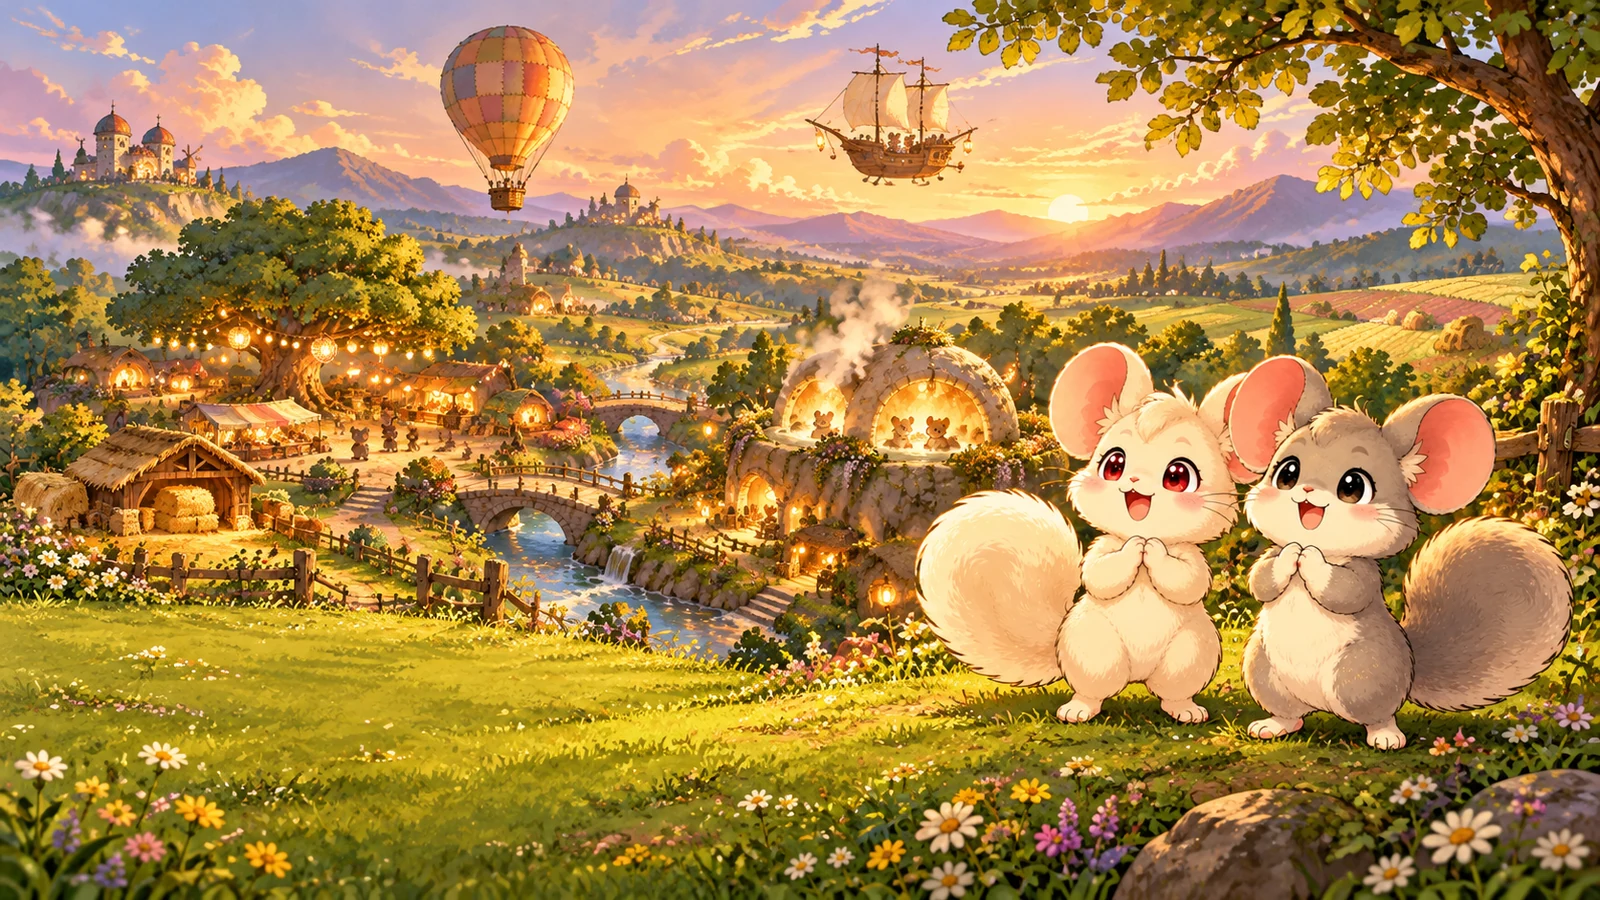
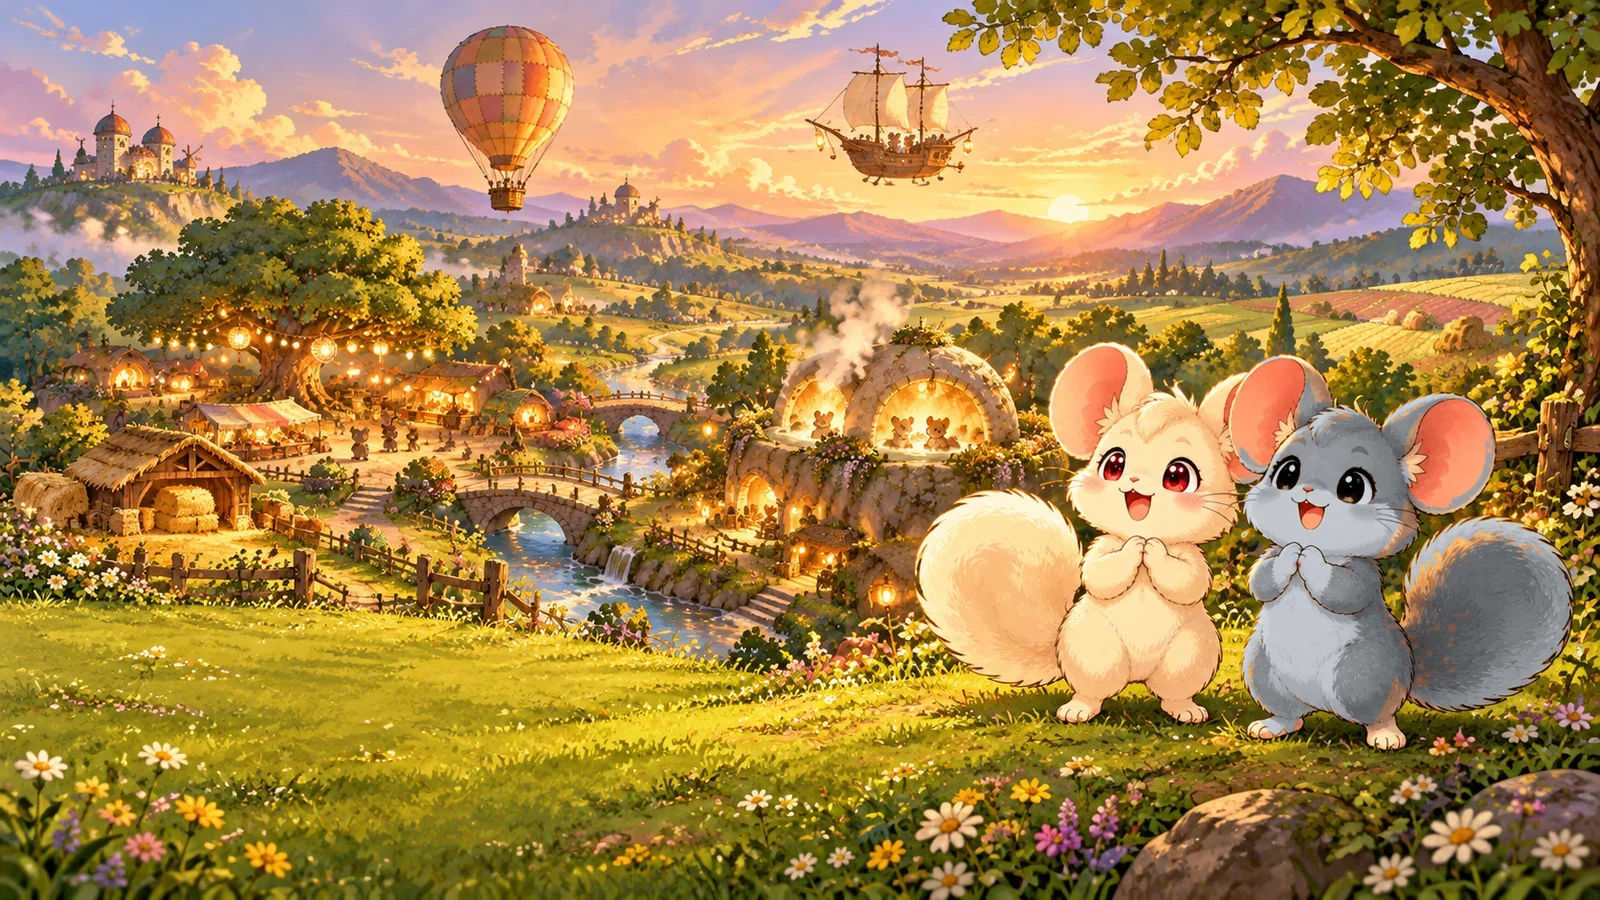
Recolour Enzo grey with black eyes in Hayloft's title painting
The image tool timed out on every repaint, so this is a masked Pillow
recolour of the existing painting.

Changed region(s): [[0.75, 0.4356, 1.0, 0.84]]

diff --git a/docs/hayloft-tycoon-art-brief.md b/docs/hayloft-tycoon-art-brief.md
@@ -396,3 +396,7 @@ Retry prompt:
 Keep image 1 exactly unchanged except recolour rightmost Enzo cool blue-grey, darker back, pale chest, solid black eyes like image 2. Preserve Dora, every scene detail and storybook style; opaque 1600x900, no text or borders.
 ```
 
+
+## Enzo recolour (28-10-2026, evening)
+
+The image tool timed out on every repaint of `title.webp` (nine attempts), so Enzo was recoloured in the existing painting with Pillow instead: inside ellipses traced around his head, ears, body and tail, warm low-saturation fur (hue 18°–58°, saturation under 0.55, or near-neutral) was blended to a faintly cool grey at 86% of its brightness; the pink inner ears, cheeks and tongue were left alone; brown iris pixels were darkened to near-black. Dora and the scene are untouched. The page does not currently display `title.webp`.
